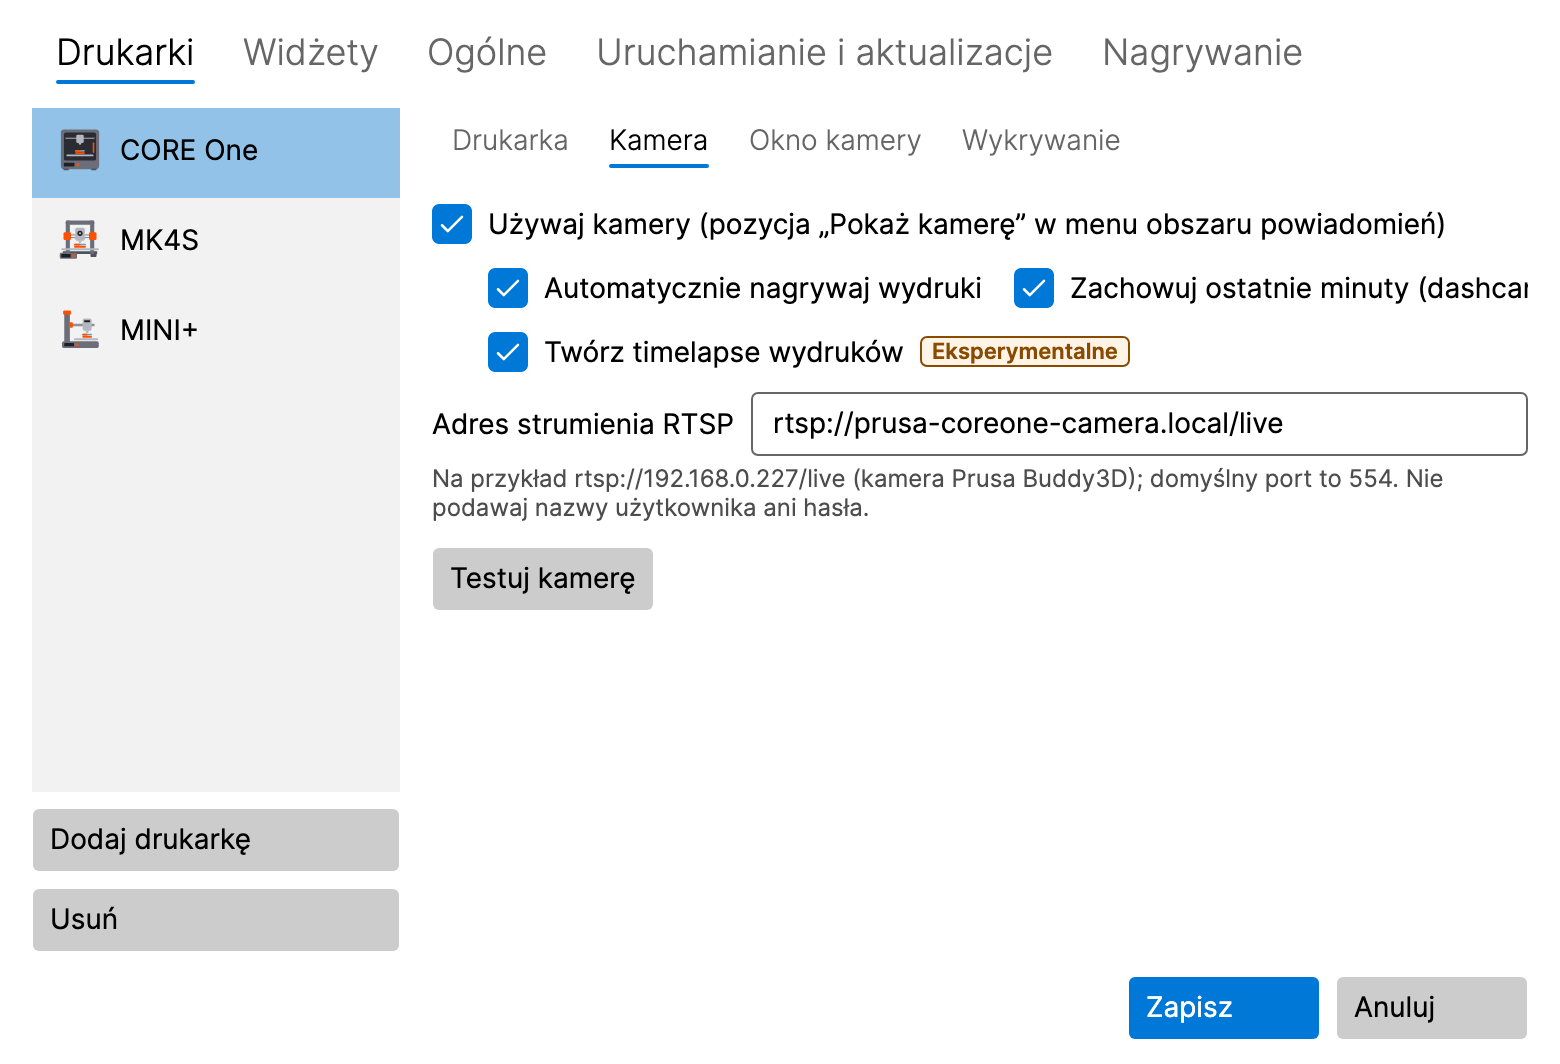
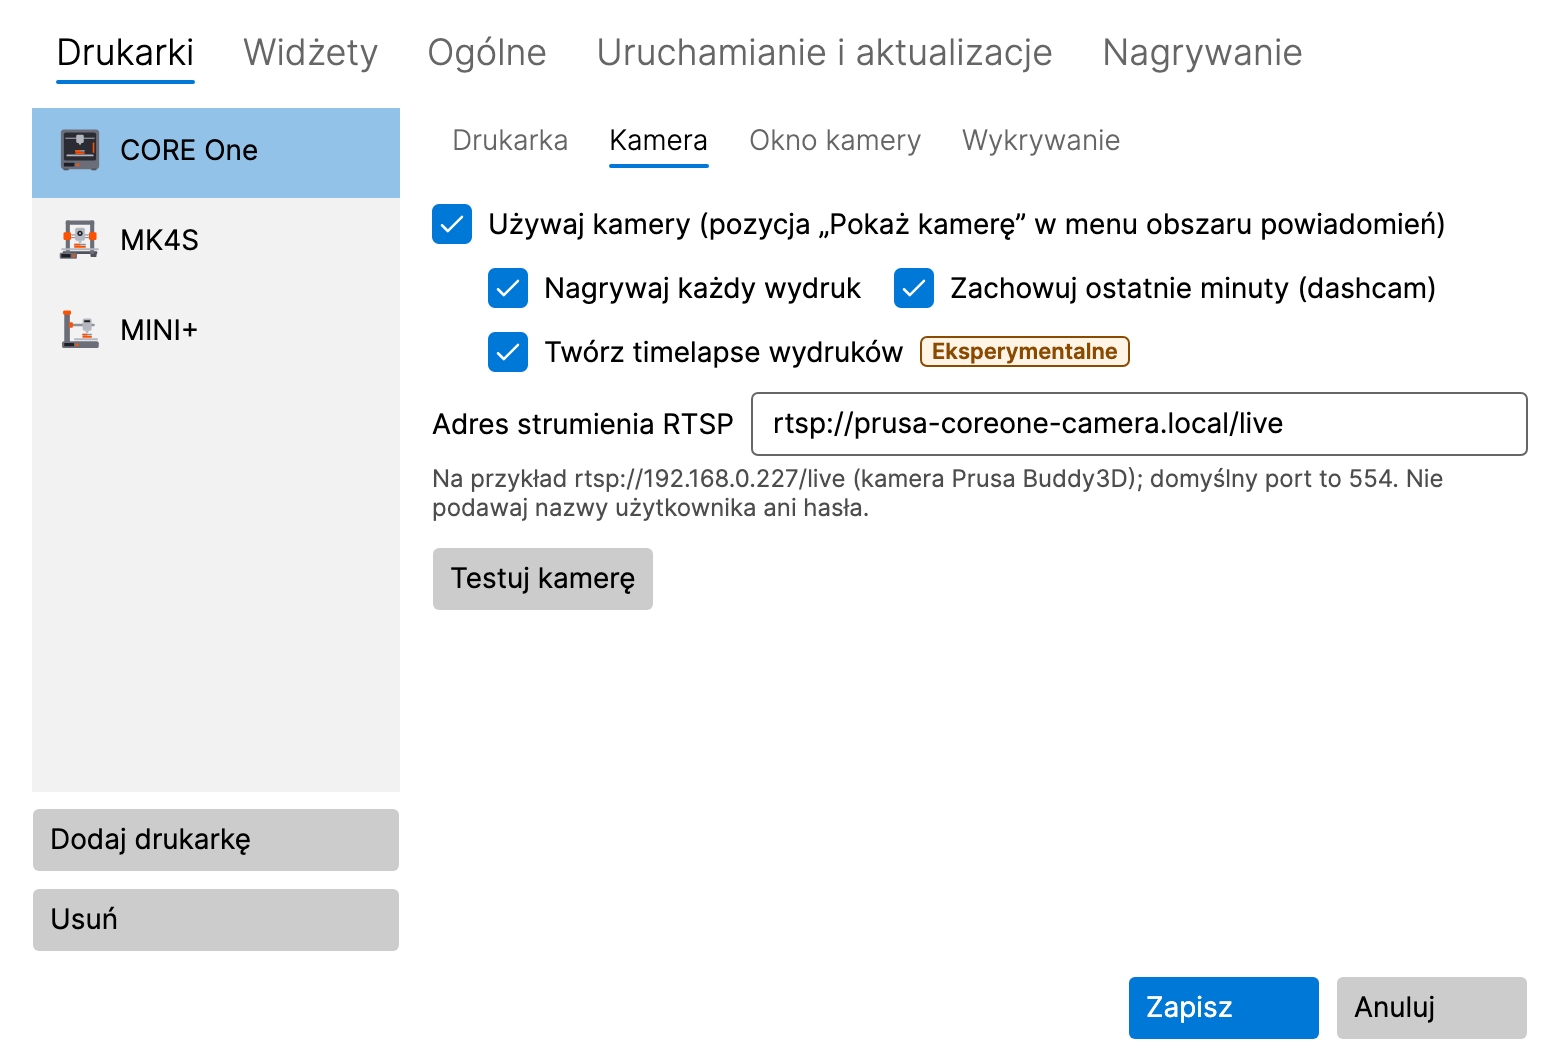
Shorten the clipped Camera sub-tab labels in four languages
In Italian, Spanish, French and Polish the automatic recording and dashcam
check boxes did not fit next to each other and the dashcam label was cut.
The translations are shorter now; wrapping the row would overflow the tab in
its fullest state. The cut-text check of the settings layout tests now also
reports texts cut by a clipping ancestor, including wrapping ones.

Changed region(s): [[0.3385, 0.2481, 0.9846, 0.3102]]

diff --git a/tests/LayerPeek.App.UiTests/Settings/SettingsWindowLayoutTests.cs b/tests/LayerPeek.App.UiTests/Settings/SettingsWindowLayoutTests.cs
@@ -1770,7 +1770,25 @@ public sealed class SettingsWindowLayoutTests(HeadlessSession session)
     {
         foreach (TextBlock block in window.GetVisualDescendants().OfType<TextBlock>())
         {
-            if (!block.IsEffectivelyVisible || block.TextWrapping != TextWrapping.NoWrap || block.TextTrimming != TextTrimming.None || string.IsNullOrEmpty(block.Text))
+            if (!block.IsEffectivelyVisible || string.IsNullOrEmpty(block.Text))
+            {
+                continue;
+            }
+
+            // T-173: any text, also a wrapping one (check box contents wrap), is cut when it ends past a clipping ancestor: a
+            // horizontal panel gives it all the width it asks for, wider than the column.
+            foreach (Visual clip in block.GetVisualAncestors().OfType<Visual>().Where(static visual => visual.ClipToBounds))
+            {
+                if (block.TranslatePoint(new Point(block.Bounds.Width, 0), clip) is not { } end || end.X <= clip.Bounds.Width + 0.5)
+                {
+                    continue;
+                }
+
+                yield return $"{context}: '{block.Text}' is cut by its {clip.GetType().Name} at {clip.Bounds.Width:0.#} DIP (ends at {end.X:0.#}).";
+                break;
+            }
+
+            if (block.TextWrapping != TextWrapping.NoWrap || block.TextTrimming != TextTrimming.None)
             {
                 continue;
             }

diff --git a/tasks/done/T-173-settings-camera-row-clipped.md b/tasks/done/T-173-settings-camera-row-clipped.md
@@ -1,0 +1,38 @@
+---
+id: T-173
+title: Oříznutý text „dashcam“ na podzáložce Kamera v delších jazycích
+status: done
+owner: ui-dev
+priority: P2
+platform: all
+depends_on: []
+---
+
+> Rozhodnutí uživatele 2026-11-05: rozložení zůstane jednořádkové, v dotčených jazycích se zkrátí překlady.
+
+## Cíl
+Na podzáložce **Kamera** tiskárny jsou „Record prints automatically“ a „Keep the last minutes (dashcam)“ vedle sebe
+v jednom vodorovném `StackPanel` (`SettingsWindow.axaml`, T-146/T-148). V polštině, francouzštině a španělštině se druhé
+zaškrtávací pole nevejde a text se ořízne (vidět na `docs/images/{pl,fr,es}/settings-camera.png`, nalezeno při T-171).
+
+## Rozsah
+- Kratší překlady obou popisků v it, es, fr, pl tak, aby se řádek vešel; příručky těchto jazyků upravit.
+- Test ořezu (`CutTexts`) rozšířit, aby takový ořez zachytil i do budoucna.
+- `docs/images/*/settings-camera.png` přegenerovat.
+
+## Akceptační kritéria
+- [x] V žádném jazyce se text na podzáložce Kamera neořízne
+- [x] Okno nastavení se vejde jako dosud (T-033), rozložení beze změny
+- [x] Snímky přegenerované a zkontrolované
+- [x] `dotnet build` a `dotnet test` bez chyb a varování
+
+## Otevřené otázky
+- (žádné) – rozhodnuto: kratší překlady
+
+## Poznámky k implementaci
+- Zalomení (`WrapPanel`) bylo vyzkoušené a zamítnuté: přidaný řádek přetekl v nejplnějším stavu podzáložky o 8–10 DIP (T-033).
+- Nové popisky: it „Registra ogni stampa“; es „Grabar cada impresión“ a „Conservar últimos minutos (dashcam)“;
+  fr „Enregistrer chaque impression“ a „Dernières minutes (dashcam)“; pl „Nagrywaj każdy wydruk“.
+- `CutTexts` (`SettingsWindowLayoutTests`) dosud kontroloval jen text proti jeho vlastní šířce a vynechával zalamované
+  texty (obsah zaškrtávacích polí). Nově hlásí každý text, který končí za ořezávajícím předkem. Před opravou hlásil právě
+  tyto čtyři popisky, nic jiného.

diff --git a/manuals/es/manual.md b/manuals/es/manual.md
@@ -317,7 +317,7 @@ Mientras se graba la cámara, la ventana de la cámara muestra **REC** en rojo; 
 
 ### 8.2 Grabar todas las impresiones
 
-Active **Grabar las impresiones automáticamente** en la subpestaña **Cámara** de la impresora. Cada impresión se graba
+Active **Grabar cada impresión** en la subpestaña **Cámara** de la impresora. Cada impresión se graba
 desde su inicio hasta un minuto después de su fin, también sin la ventana de la cámara abierta.
 
 <p align="center">
@@ -326,7 +326,7 @@ desde su inicio hasta un minuto después de su fin, también sin la ventana de l
 
 ### 8.3 Dashcam: los últimos minutos
 
-Active **Conservar los últimos minutos (dashcam)** en la subpestaña **Cámara** de la impresora. Durante una impresión,
+Active **Conservar últimos minutos (dashcam)** en la subpestaña **Cámara** de la impresora. Durante una impresión,
 LayerPeek conserva en memoria los últimos 2 minutos de la cámara (unos 8 MB por minuto e impresora); no se escribe nada
 en el disco hasta que se guardan. Los últimos minutos, junto con los 30 segundos posteriores al evento, se guardan:
 

diff --git a/manuals/fr/manual.md b/manuals/fr/manual.md
@@ -325,7 +325,7 @@ le sous-menu de l'imprimante.
 
 ### 8.2 Enregistrer chaque impression
 
-Activez **Enregistrer les impressions automatiquement** dans le sous-onglet **Caméra** de l'imprimante. Chaque
+Activez **Enregistrer chaque impression** dans le sous-onglet **Caméra** de l'imprimante. Chaque
 impression est enregistrée depuis son début jusqu'à une minute après sa fin, même sans fenêtre de la caméra ouverte.
 
 <p align="center">
@@ -334,7 +334,7 @@ impression est enregistrée depuis son début jusqu'à une minute après sa fin,
 
 ### 8.3 Dashcam : les dernières minutes
 
-Activez **Garder les dernières minutes (dashcam)** dans le sous-onglet **Caméra** de l'imprimante. Pendant une
+Activez **Dernières minutes (dashcam)** dans le sous-onglet **Caméra** de l'imprimante. Pendant une
 impression, LayerPeek garde en mémoire les 2 dernières minutes de la caméra (environ 8 Mo par minute et par
 imprimante) ; rien n'est écrit sur le disque tant qu'elles ne sont pas sauvegardées. Les dernières minutes, plus les
 30 secondes qui suivent l'événement, sont sauvegardées :

diff --git a/manuals/pl/manual.md b/manuals/pl/manual.md
@@ -314,7 +314,7 @@ Podczas nagrywania kamery okno kamery pokazuje czerwony wskaźnik **REC**, a pod
 
 ### 8.2 Nagrywanie każdego wydruku
 
-Włącz **Automatycznie nagrywaj wydruki** w podkarcie **Kamera** drukarki. Każdy wydruk jest nagrywany od początku do
+Włącz **Nagrywaj każdy wydruk** w podkarcie **Kamera** drukarki. Każdy wydruk jest nagrywany od początku do
 minuty po jego zakończeniu, także bez otwartego okna kamery.
 
 <p align="center">

diff --git a/manuals/it/manual.md b/manuals/it/manual.md
@@ -320,7 +320,7 @@ sottomenu della stampante.
 
 ### 8.2 Registrare ogni stampa
 
-Attiva **Registra le stampe automaticamente** nella sottoscheda **Telecamera** della stampante. Ogni stampa viene
+Attiva **Registra ogni stampa** nella sottoscheda **Telecamera** della stampante. Ogni stampa viene
 registrata dall’inizio fino a un minuto dopo la fine, anche senza una finestra della telecamera aperta.
 
 <p align="center">
